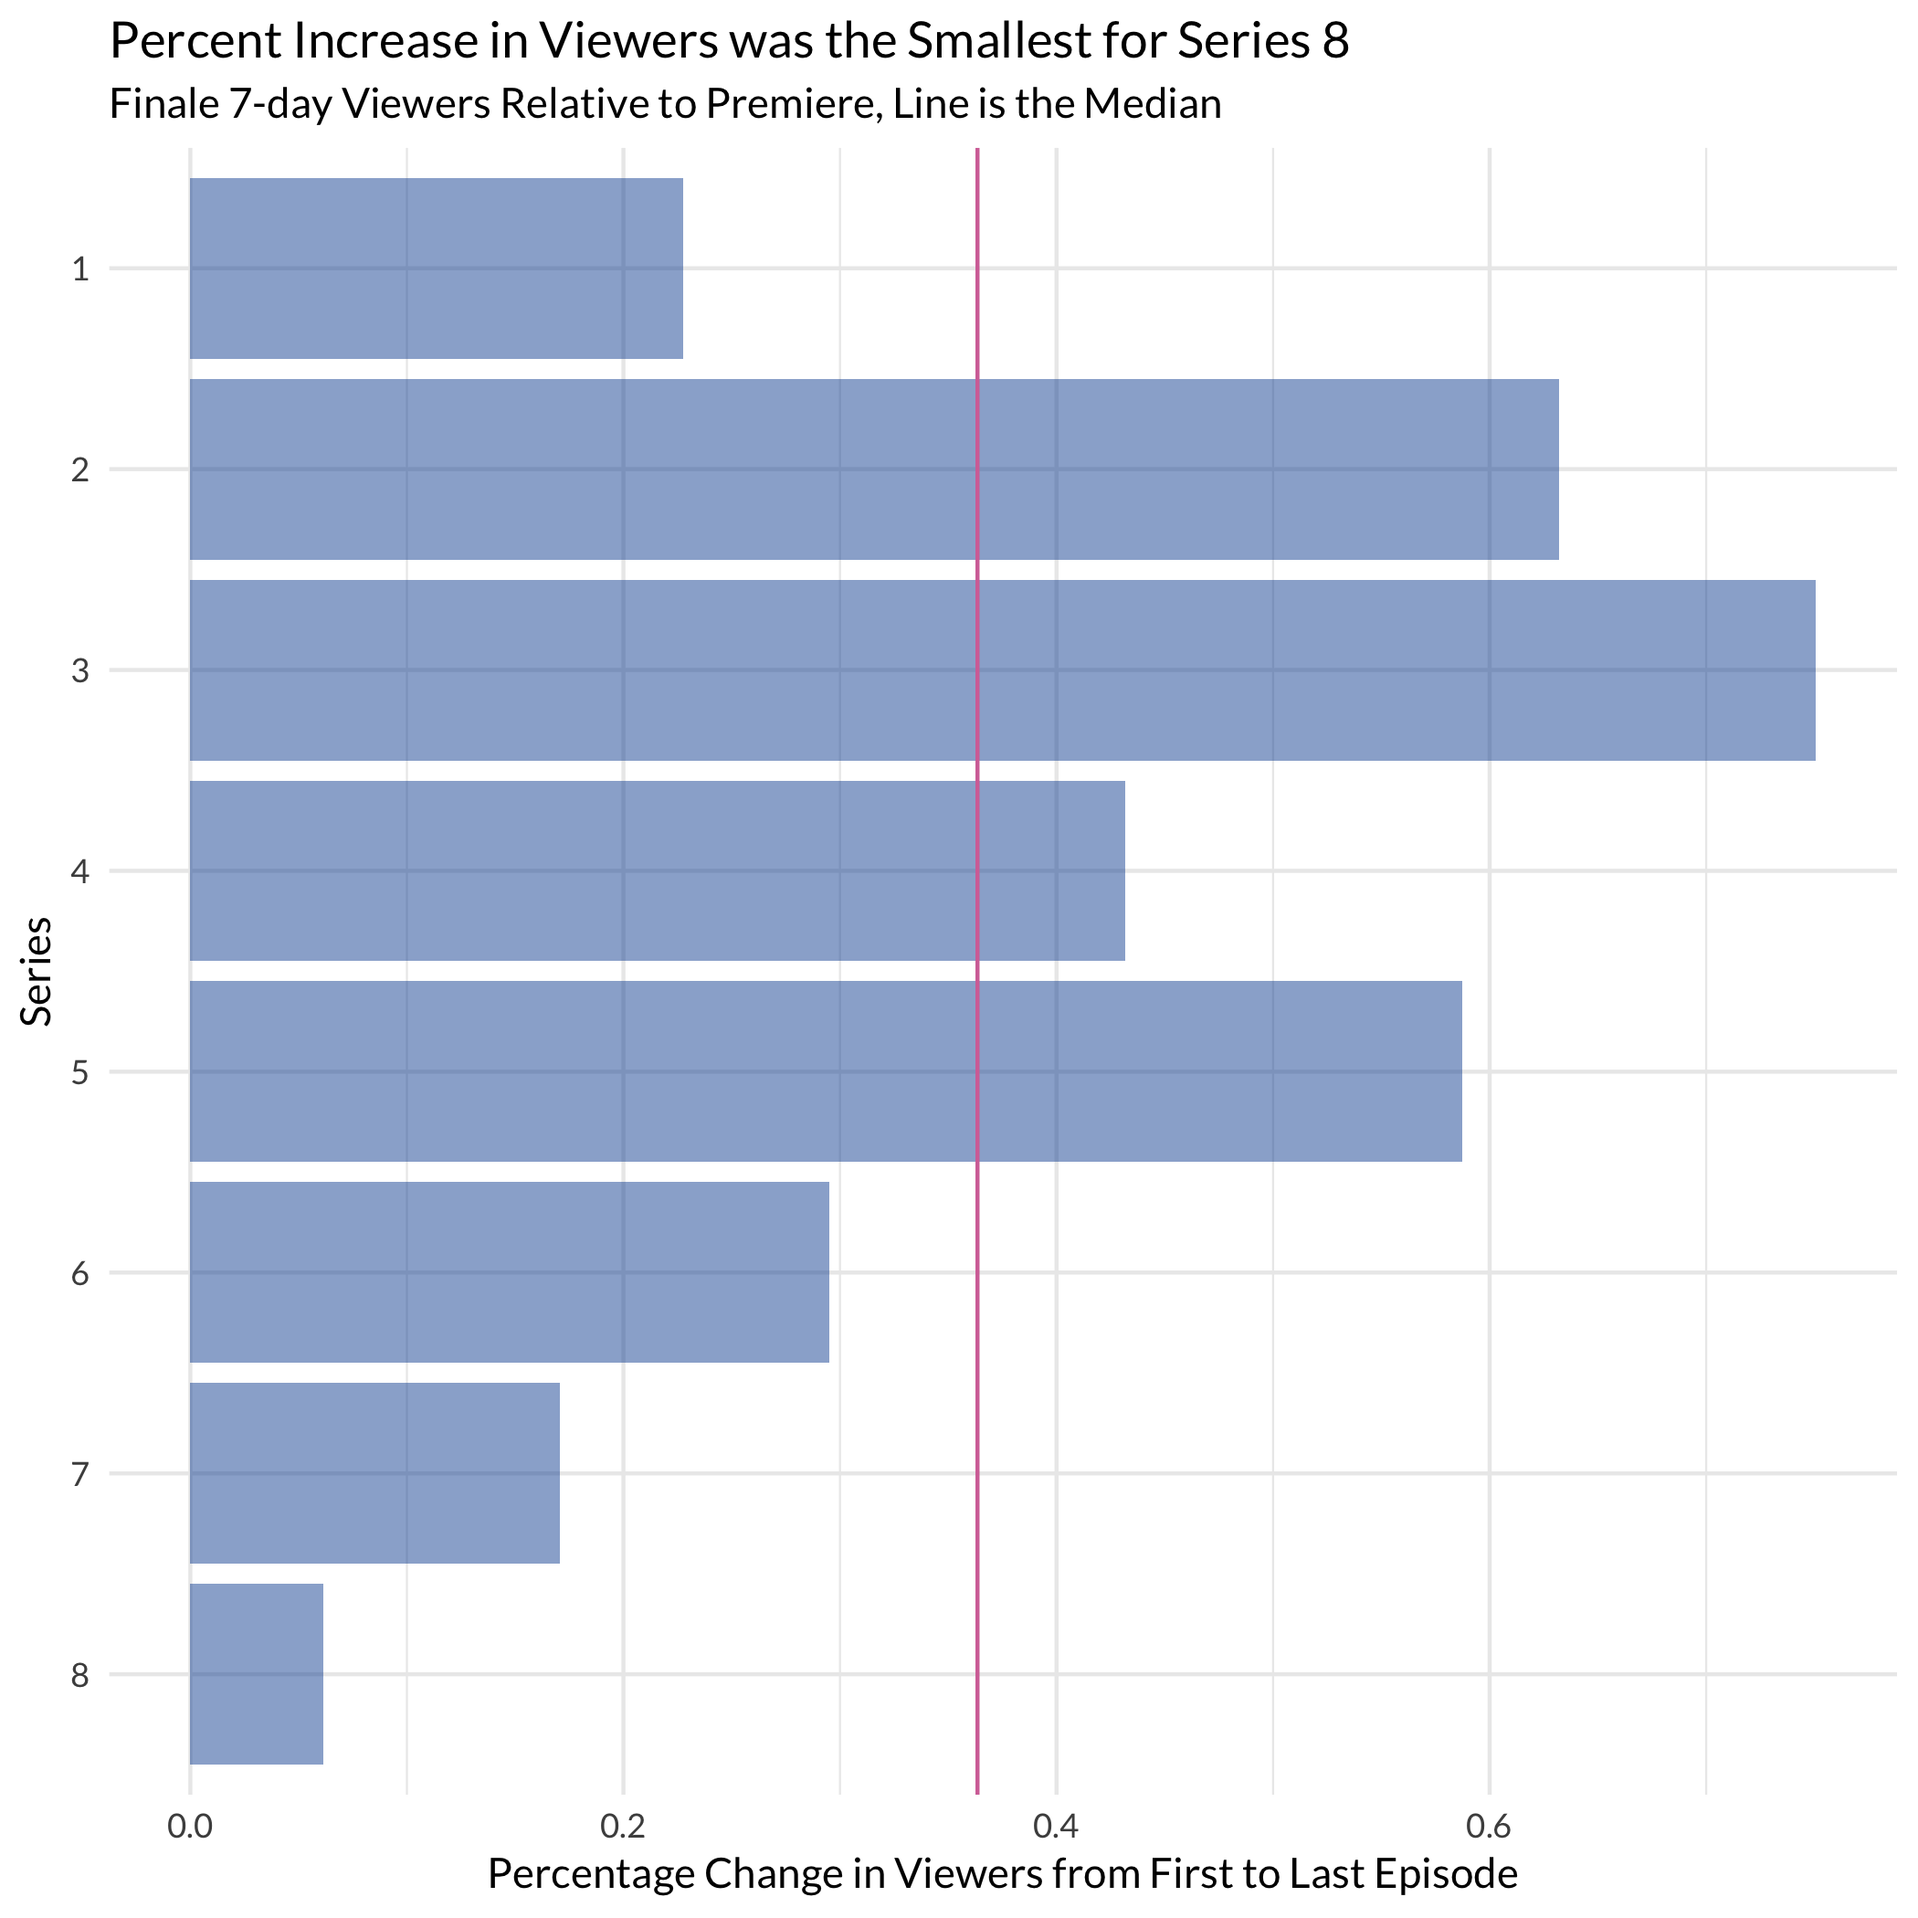
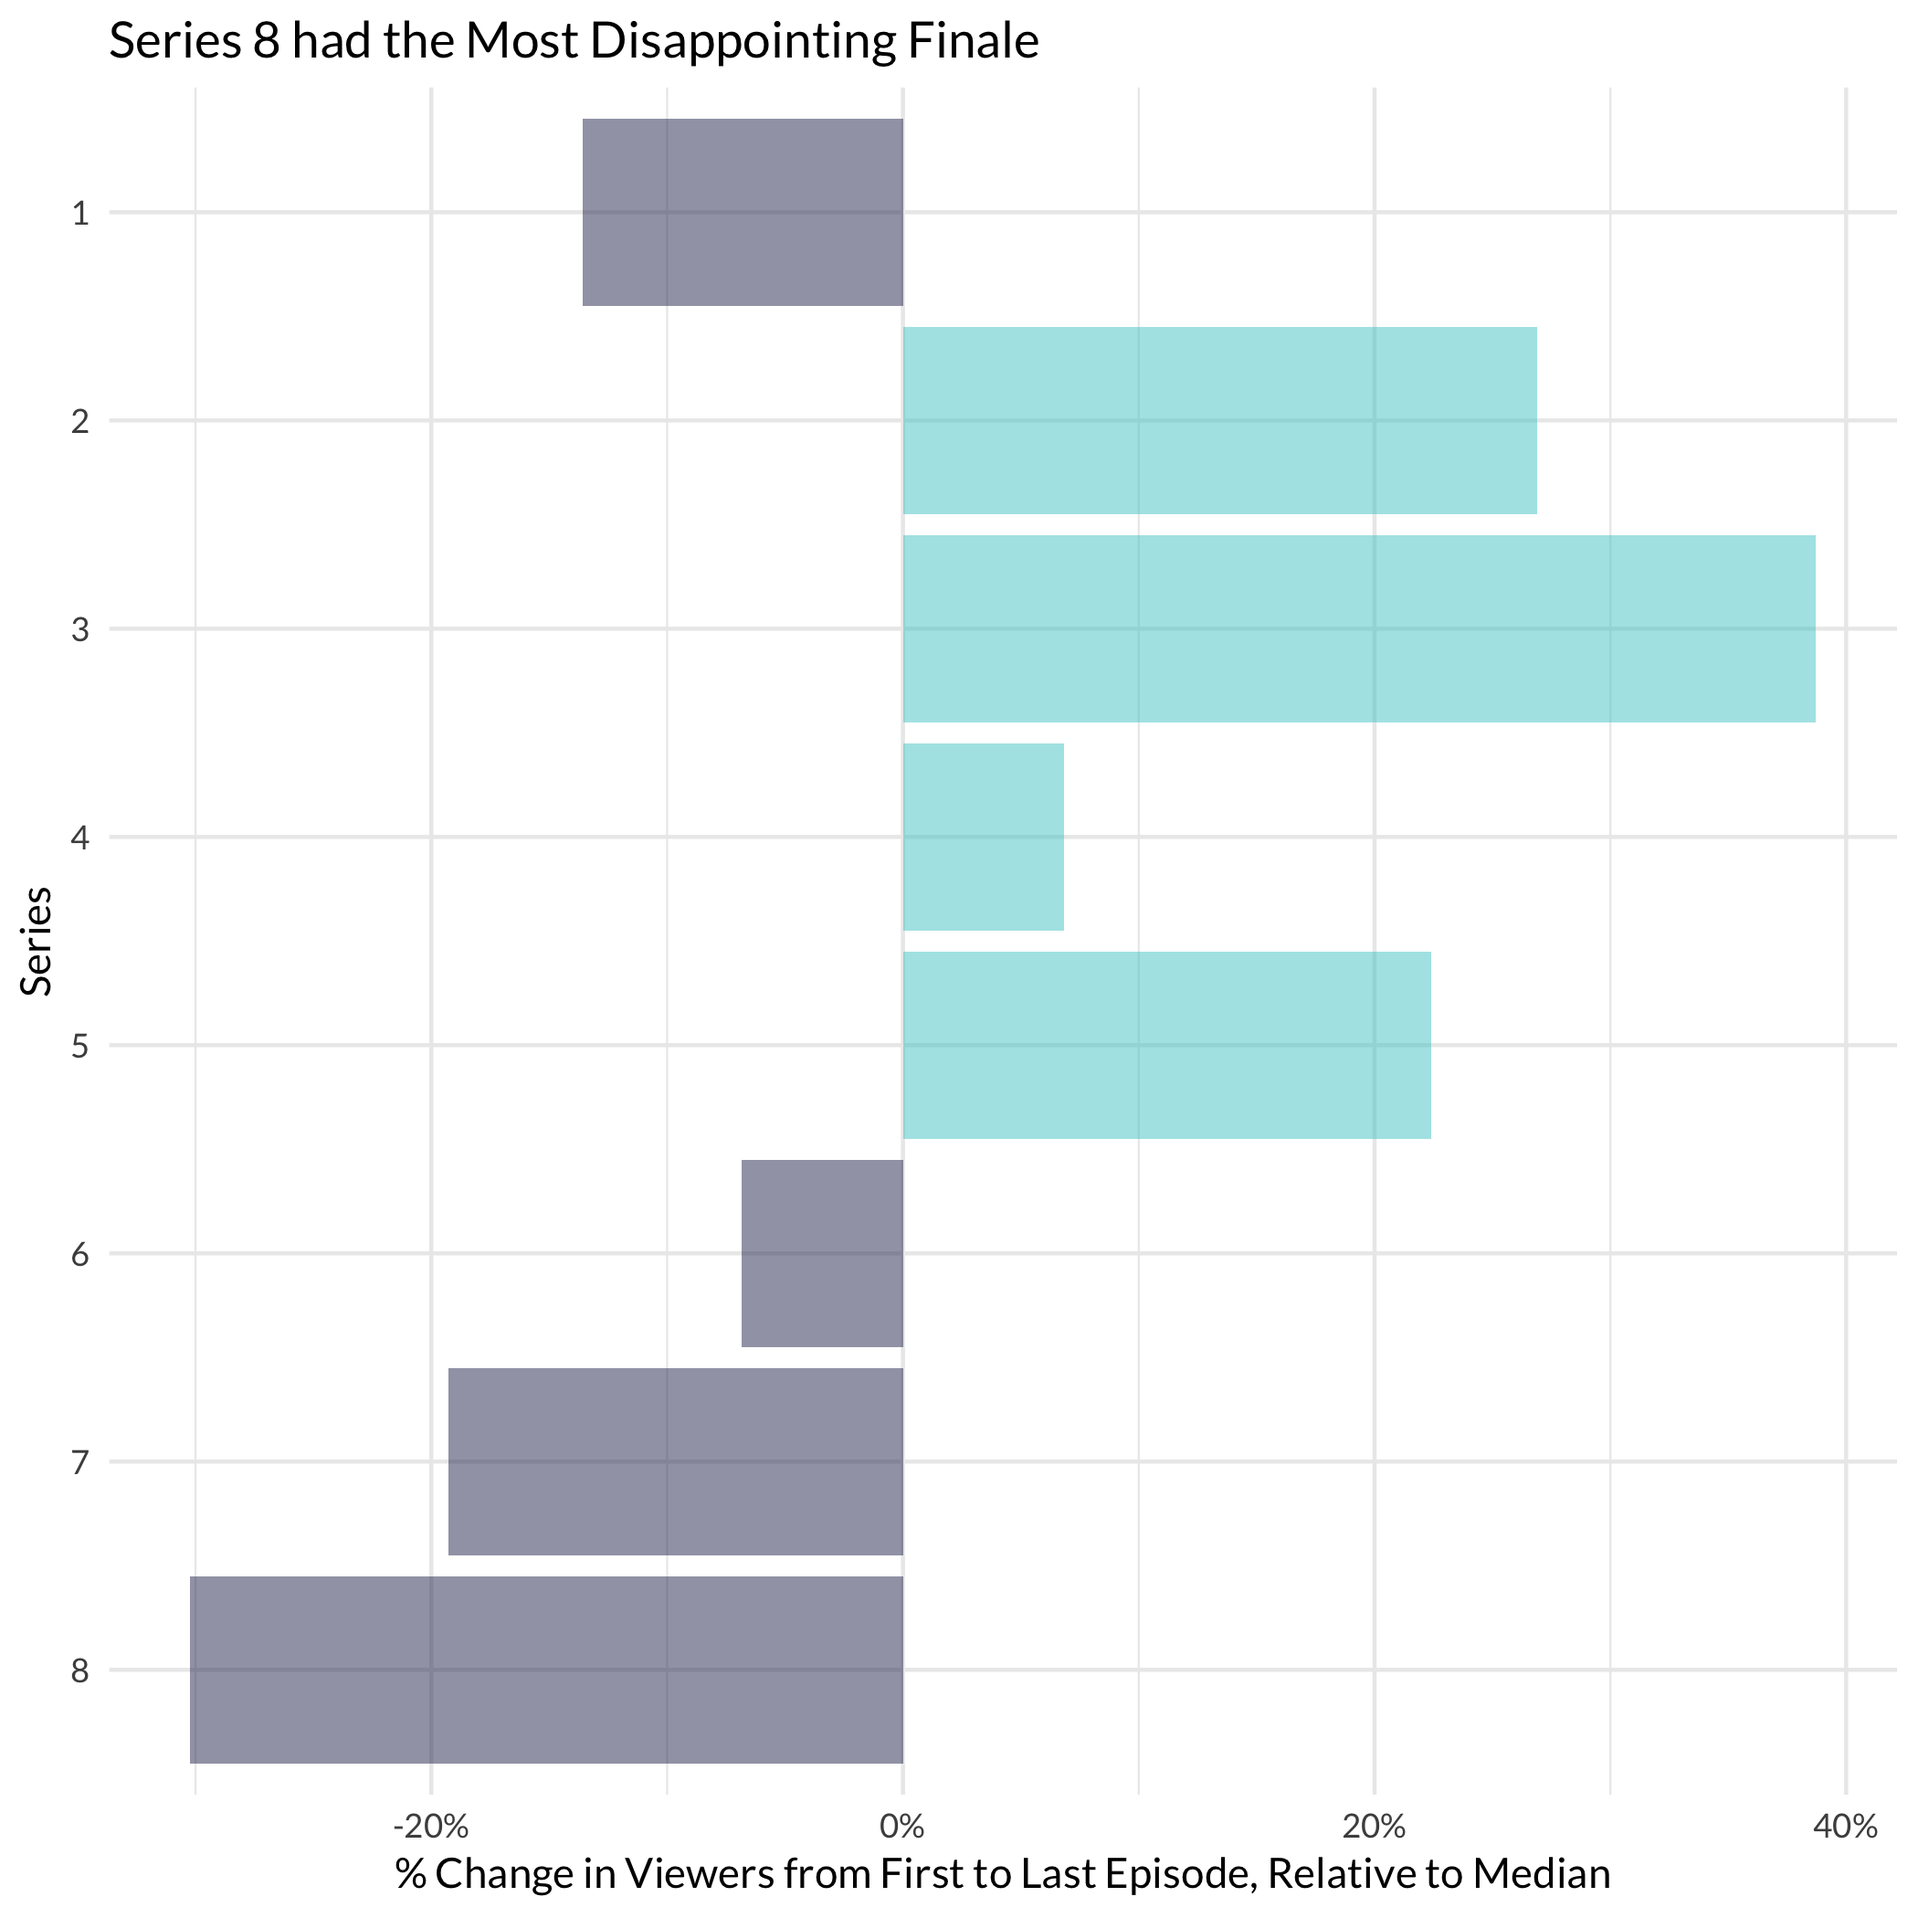
move some recipes around

diff --git a/slides/11-slides.html b/slides/11-slides.html
@@ -104,7 +104,6 @@ ratings_bonanza1 &lt;- ratings %&gt;%
          series = as.factor(series)) %&gt;% 
   select(ep_id, viewers_7day, series)
 
-# my colors from beyonce
 mybey &lt;- beyonce_palette(66)[c(11,10,7,6,5,4,3,1)]
 
 # make the plot
@@ -115,8 +114,12 @@ ggplot(ratings_bonanza1, aes(x = ep_id, y = viewers_7day,
   ggtitle("Series 8 was a Big Setback in Viewers",
           subtitle= "7-Day Viewers across All Series/Episodes") +
   theme(legend.position = "bottom",
-        text = element_text(family = "Lato")) + 
+        text = element_text(family = "Lato"),
+        axis.text.x = element_blank(),
+        axis.ticks.x = element_blank(),
+        axis.title.x = element_blank()) + 
   scale_fill_manual(values = mybey) +
+  scale_x_continuous(expand = c(0, 0)) +
   guides(fill = guide_legend(nrow = 1))
 ```
 
@@ -178,7 +181,8 @@ ggplot(ratings_bonanza2, aes(x = episode,
                       end = .8, guide = FALSE) +
   theme_minimal() +
   theme(text = element_text(family = "Lato")) +
-  ggtitle("Great British Bake Off Finales Get the Most Viewers", subtitle="For Series with 10 Episodes")
+  ggtitle("Great British Bake Off Finales Get the Most Viewers",
+          subtitle = "Way Higher than Series Average (for Series with 10 episodes)")
 ```
 
 
@@ -213,19 +217,7 @@ ggplot(ratings, aes(x = as.factor(episode), y = viewers_7day,
 ```
 
 
----
-class: center, middle, inverse
 
-# 🎂
-
-## What is going on with the Series 8 finale?
-
----
-class: middle, center, inverse
-
-## A [tweet](https://twitter.com/PrueLeith/status/925329937644564480) heard 'round the world
-
-![](../images/gbbo-spoiler-tweet.png)
 ---
 class: center, middle, inverse
 
@@ -296,6 +288,20 @@ ggplot(ratings_bonanza4, aes(x = series, y = viewers_7day,
   theme(text = element_text(family = "Lato")) +
   labs(color = "Episode")
 ```
+
+---
+class: center, middle, inverse
+
+# 🎂
+
+## What is going on with the Series 8 finale?
+
+---
+class: middle, center, inverse
+
+## A [tweet](https://twitter.com/PrueLeith/status/925329937644564480) heard 'round the world
+
+![](../images/gbbo-spoiler-tweet.png)
 
 ---
 class: center, middle, inverse
@@ -434,87 +440,93 @@ ggplot(ratings_bonanza7, aes(x = fct_rev(series),
   theme(text = element_text(family = "Lato")) 
 ```
 
+
+
 ---
 class: center, middle, inverse
 
 # 🎂
 
-## Recipe 8: Bar Chart, Take 2!
+## Recipe 8: % Change Bar Chart
 
 ---
-## Recipe 8: Bar Chart, Take 2!
+## Recipe 8: % Change Bar Chart
 
 &lt;img src="11-slides_files/figure-html/unnamed-chunk-22-1.png" width="70%" style="display: block; margin: auto;" /&gt;
 
 ---
-## Recipe 8: Code for Bar Chart, Take 2!
+## Recipe 8: Code for % Bar
 
 
 ```r
-# some more serious wrangling here
+# wrangling to calculate percent change
 ratings_bonanza8 &lt;- ratings %&gt;% 
   select(series, episode, viewers_7day) %&gt;% 
   group_by(series) %&gt;% 
   filter(episode == 1 | episode == max(episode)) %&gt;% 
   ungroup() %&gt;% 
-  mutate(episode = recode(episode, `1` = "first", .default = "last")) %&gt;%  
+  mutate(episode = recode(episode, `1` = "first", .default = "last")) %&gt;% 
   spread(episode, viewers_7day) %&gt;% 
-  mutate(finale_bump = last - first,
-         finale_bump_median = finale_bump - median(finale_bump),
-         bump_sign = if_else(finale_bump_median &gt; 0, 1, 0))
+  mutate(pct_change = (last - first) / first)
 
 # plot
 ggplot(ratings_bonanza8, aes(x = fct_rev(series), 
-                             y = finale_bump_median,
-                             fill = as.factor(bump_sign))) +
-  geom_col(alpha = .5) +
-  coord_flip() +
-  labs(x = "Series", y = "Difference in Millions of Viewers Compared to Median Finale Bump") +
-  scale_fill_manual(values = rev(beyonce_palette(121)), guide = FALSE) +
+                             y = pct_change)) +
+  geom_col(fill = beyonce_palette(49)[1], alpha = .5) +
+  labs(x = "Series", y = "% Increase in Viewers from First to Last Episode") +
   theme_minimal() +
-  ggtitle("Compared to the Median, Series 1 and 8 had the Most Disappointing Finales",
-          subtitle= "Each Series' Finale 'Bump' Calculated as Finale Minus Premiere 7-day Viewers") +
-  theme(text = element_text(family = "Lato")) 
+  ggtitle("Series 8 had a 6% Increase in Viewers from Premiere to Finale",
+          subtitle= "The Lowest Across All Series (Line is the Median)") +
+  theme(text = element_text(family = "Lato")) +
+  geom_hline(aes(yintercept = median(pct_change, na.rm = TRUE)), 
+             color = beyonce_palette(49)[5]) +
+  scale_y_continuous(labels = scales::percent) +
+  coord_flip() 
 ```
+
 
 ---
 class: center, middle, inverse
 
 # 🎂
 
-## Recipe 9: % Change Bar Chart
+## Recipe 9: Bars Diverging from Median
 
 ---
-## Recipe 9: % Change Bar Chart
+## Recipe 9: Bars Diverging from Median
 
 &lt;img src="11-slides_files/figure-html/unnamed-chunk-24-1.png" width="70%" style="display: block; margin: auto;" /&gt;
 
 ---
-## Recipe 9: Code for % Change Bar Chart
+## Recipe 9: Bars from Median
 
 
 ```r
-# wrangling to calculate percent change
+# some more serious wrangling here
 ratings_bonanza9 &lt;- ratings %&gt;% 
   select(series, episode, viewers_7day) %&gt;% 
   group_by(series) %&gt;% 
   filter(episode == 1 | episode == max(episode)) %&gt;% 
-  mutate(pct_change = (viewers_7day - lag(viewers_7day)) /
-           lag(viewers_7day)) %&gt;% 
-  ungroup()
+  ungroup() %&gt;% 
+  mutate(episode = recode(episode, `1` = "first", .default = "last")) %&gt;% 
+  spread(episode, viewers_7day) %&gt;% 
+  mutate(finale_bump =pct_change = (last - first) / first,
+         pct_change_diff = pct_change - median(pct_change),
+         change_sign = if_else(pct_change_diff &gt; 0, 1, 0))
 
 # plot
 ggplot(ratings_bonanza9, aes(x = fct_rev(series), 
-                             y = pct_change)) +
-  geom_col(fill = beyonce_palette(49)[1], alpha = .5) +
-  coord_flip() +
-  labs(x = "Series", y = "Percentage Change in Viewers from First to Last Episode") +
+                             y = pct_change_diff,
+                             fill = as.factor(change_sign))) +
+  geom_col(alpha = .5) +
+  labs(x = "Series", 
+       y = "% Change in Viewers from First to Last Episode, Relative to Median") +
+  scale_fill_manual(values = rev(beyonce_palette(121)), guide = FALSE) +
   theme_minimal() +
-  ggtitle("Percent Increase in Viewers was the Smallest for Series 8",
-          subtitle= "Finale 7-day Viewers Relative to Premiere, Line is the Median") +
+  ggtitle("Series 8 had the Most Disappointing Finale") +
   theme(text = element_text(family = "Lato")) +
-  geom_hline(aes(yintercept = median(pct_change, na.rm = TRUE)), 
-             color = beyonce_palette(49)[5])
+  scale_y_continuous(labels = scales::percent) +
+  coord_flip()
 ```
 
 ---
@@ -530,21 +542,24 @@ class: center, middle, inverse
 &lt;img src="11-slides_files/figure-html/unnamed-chunk-26-1.png" width="70%" style="display: block; margin: auto;" /&gt;
 
 ---
-## Recipe 10: Code for Lollipop Plot, % Change
+## Recipe 10: Code for % Lollipop Plot
 
 
 ```r
 # plot
 ggplot(ratings_bonanza9, aes(x = fct_rev(series), 
                              y = pct_change)) +
-  geom_point(color = beyonce_palette(49)[1]) +
+  geom_point(color = beyonce_palette(49)[1], size = 2) +
   geom_segment(aes(xend = fct_rev(series), yend = 0), color = beyonce_palette(49)[1]) +
-  coord_flip() +
-  labs(x = "Series", y = "Percentage Change in Viewers from First to Last Episode") +
+  geom_text(aes(label = scales::percent(pct_change)), hjust = -.25,
+            family = "Lato") +
+  labs(x = "Series", y = "% Change in Viewers from First to Last Episode") +
   theme_minimal() +
   ggtitle("Percent Increase in Viewers was the Smallest for Series 8",
           subtitle= "Finale 7-day Viewers Relative to Premiere") +
-  theme(text = element_text(family = "Lato")) 
+  theme(text = element_text(family = "Lato")) +
+  scale_y_continuous(labels = scales::percent, limits = c(0, .85)) +
+  coord_flip() 
 ```
 
 ---
